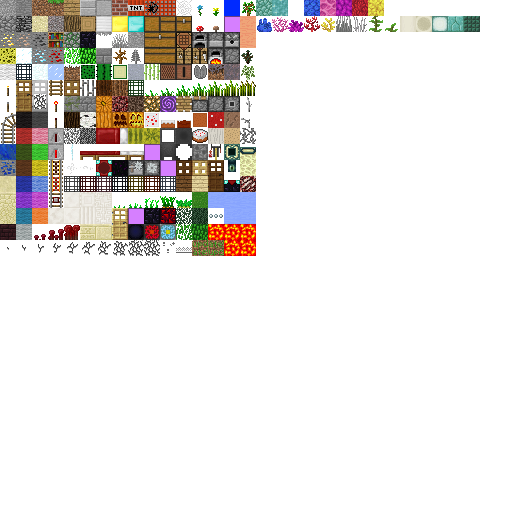
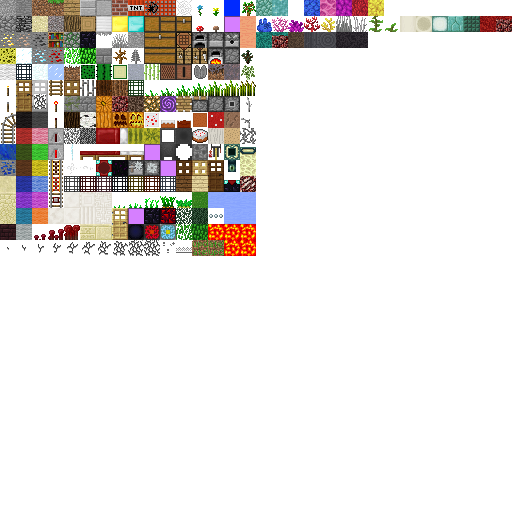
Nether Update, phase 1: Java 1.16's five Nether biomes in new worlds
NetherBiomes: nether wastes, soul sand valley, crimson forest, warped
forest, basalt deltas, picked as Java's multi-noise source does -- the
nearest of five points in (temperature, humidity), two noise fields --
scaled so all of them fit the 256-block Nether. Worked out from the seed
alone, so visitors agree with the host unsent.

New worlds only: LevelData's generator version, which was never saved, is
saved now; a world with none saved is 0 (the original Nether), new ones are
1 (LGV_NETHER_BIOMES). It reaches visitors in StartGamePacket's field for it.

HellRandomLevelSource::buildSurfaces gives every floor of a biome its ground
a few blocks deep, at any height: crimson and warped nylium over netherrack,
soul sand and soul soil in patches, basalt and blackstone; the wastes keep
the old surface. New blocks 197-201 (crimson/warped nylium, soul soil,
basalt, blackstone) on placeholder pictures until the real ones arrive.

The fog takes the biomes' Java colours, averaged round the camera and eased
towards, so it fades across a border.

Claude-Session: https://claude.ai/code/session_017mH2AEpB4uvm7sSTXaKhRB

Changed region(s): [[0.5, 0.0625, 0.7188, 0.0938], [0.9375, 0.0312, 1.0, 0.0625]]

diff --git a/handheld/src/world/level/levelgen/HellRandomLevelSource.cpp b/handheld/src/world/level/levelgen/HellRandomLevelSource.cpp
@@ -10,12 +10,14 @@
 #include "../ChunkPos.h"
 #include "../biome/Biome.h"
 #include "../biome/BiomeSource.h"
+#include "../biome/NetherBiomes.h"
 #include "../chunk/LevelChunk.h"
 #include "../material/Material.h"
 #include "../tile/Tile.h"
 #include "../tile/HeavyTile.h"
 #include "../../../util/Mth.h"
 #include "../../../util/Random.h"
+#include "../../../SharedConstants.h"
 
 static const int MAX_BUFFER_SIZE = 1024;
 
@@ -31,7 +33,9 @@ HellRandomLevelSource::HellRandomLevelSource(Level* level, long seed, int versio
 	depthNoise(&random, 16),
 	spawnMobs(spawnMobs),
 	fortress(seed),
-	pnr(NULL), ar(NULL), br(NULL)
+	pnr(NULL), ar(NULL), br(NULL),
+	seed(seed),
+	version(version)
 {
 	buffer = new float[MAX_BUFFER_SIZE];
 }
@@ -129,6 +133,22 @@ void HellRandomLevelSource::buildSurfaces(int xOffs, int zOffs, unsigned char* b
             int top = Tile::netherrack->id;
             int material = Tile::netherrack->id;
 
+            // Java 1.16's biomes (new worlds): every floor of a biome gets
+            // its ground, at any height, a few blocks deep.
+            int biomeTop = 0, biomeFill = 0;
+            if (version >= LGV_NETHER_BIOMES) {
+                const int wx = xOffs * 16 + x, wz = zOffs * 16 + z;
+                switch (NetherBiomes::at(seed, wx, wz)) {
+                    case NetherBiomes::CrimsonForest: biomeTop = Tile::crimsonNylium->id; biomeFill = Tile::netherrack->id; break;
+                    case NetherBiomes::WarpedForest:  biomeTop = Tile::warpedNylium->id;  biomeFill = Tile::netherrack->id; break;
+                    case NetherBiomes::SoulSandValley:
+                        biomeTop = biomeFill = sand ? Tile::hellSand->id : Tile::soulSoil->id; break;
+                    case NetherBiomes::BasaltDeltas:
+                        biomeTop = biomeFill = gravel ? Tile::blackstone->id : Tile::basalt->id; break;
+                    default: break;
+                }
+            }
+
             for (int y = 127; y >= 0; y--) {
                 int offs = (x << 11) | (z << 7) | y;
 
@@ -141,6 +161,15 @@ void HellRandomLevelSource::buildSurfaces(int xOffs, int zOffs, unsigned char* b
 
                     if (old == 0) {
                         run = -1;
+                    } else if (old == Tile::netherrack->id && biomeTop) {
+                        // A floor (air just above), or the blocks under one.
+                        if (run == -1) {
+                            blocks[offs] = (unsigned char) biomeTop;
+                            run = runDepth > 0 ? runDepth : 1;
+                        } else if (run > 0) {
+                            run--;
+                            blocks[offs] = (unsigned char) biomeFill;
+                        }
                     } else if (old == Tile::netherrack->id) {
                         if (run == -1) {
                             if (runDepth <= 0) {

diff --git a/handheld/src/world/level/tile/Tile.cpp b/handheld/src/world/level/tile/Tile.cpp
@@ -3,6 +3,7 @@
 #include "DoublePlantTile.h"
 #include "KelpTile.h"
 #include "SimpleBlocks.h"
+#include "NetherSurfaceTiles.h"
 #include "../Level.h"
 #include "../LevelConstants.h"
 #include "../../entity/player/Player.h"
@@ -166,6 +167,11 @@ Tile* Tile::coral[5] = { NULL, NULL, NULL, NULL, NULL };
 Tile* Tile::coralPlant[5] = { NULL, NULL, NULL, NULL, NULL };
 Tile* Tile::doubleGrass = NULL;
 Tile* Tile::kelp = NULL;
+Tile* Tile::crimsonNylium = NULL;
+Tile* Tile::warpedNylium = NULL;
+Tile* Tile::soulSoil = NULL;
+Tile* Tile::basalt = NULL;
+Tile* Tile::blackstone = NULL;
 Tile* Tile::prismarineBricks = NULL;
 Tile* Tile::darkPrismarine = NULL;
 Tile* Tile::stairs_prismarineBricks = NULL;
@@ -341,6 +347,12 @@ void Tile::initTiles() {
 	darkPrismarine = (new Tile(193, 285, Material::stone))->init()->setDestroyTime(1.5f)->setExplodeable(10)->setSoundType(SOUND_STONE)->setCategory(ItemCategory::Structures)->setDescriptionId("darkPrismarine");
 	stairs_prismarineBricks = (new StairTile(194, prismarineBricks))->init()->setCategory(ItemCategory::Structures)->setDescriptionId("stairsPrismarineBricks");
 	stairs_darkPrismarine = (new StairTile(195, darkPrismarine))->init()->setCategory(ItemCategory::Structures)->setDescriptionId("stairsDarkPrismarine");
+	// The Nether's biome surfaces (NetherBiomes): cells 286-293.
+	crimsonNylium = (new NyliumTile(197, 286))->init()->setDestroyTime(0.4f)->setSoundType(SOUND_STONE)->setCategory(ItemCategory::Structures)->setDescriptionId("crimsonNylium");
+	warpedNylium  = (new NyliumTile(198, 288))->init()->setDestroyTime(0.4f)->setSoundType(SOUND_STONE)->setCategory(ItemCategory::Structures)->setDescriptionId("warpedNylium");
+	soulSoil      = (new Tile(199, 290, Material::sand))->init()->setDestroyTime(0.5f)->setSoundType(SOUND_SAND)->setCategory(ItemCategory::Structures)->setDescriptionId("soulSoil");
+	basalt        = (new TopSideTile(200, 291, Material::stone))->init()->setDestroyTime(1.25f)->setExplodeable(4.2f)->setSoundType(SOUND_STONE)->setCategory(ItemCategory::Structures)->setDescriptionId("basalt");
+	blackstone    = (new TopSideTile(201, 293, Material::stone))->init()->setDestroyTime(1.5f)->setExplodeable(6)->setSoundType(SOUND_STONE)->setCategory(ItemCategory::Structures)->setDescriptionId("blackstone");
 	// Bone block: sides 281, top and bottom 282. Sea lantern: 283.
 	boneBlock = (new BoneBlockTile(190, 281))->init()->setDestroyTime(2.0f)->setExplodeable(10)->setSoundType(SOUND_STONE)->setCategory(ItemCategory::Structures)->setDescriptionId("boneBlock");
 	seaLantern = (new SeaLanternTile(191, 283))->init()->setDestroyTime(0.3f)->setLightEmission(1.0f)->setSoundType(SOUND_GLASS)->setCategory(ItemCategory::Decorations)->setDescriptionId("seaLantern");

diff --git a/handheld/src/world/level/biome/NetherBiomes.cpp b/handheld/src/world/level/biome/NetherBiomes.cpp
@@ -1,0 +1,71 @@
+#include "NetherBiomes.h"
+#include "../levelgen/synth/PerlinNoise.h"
+#include "../../../util/Random.h"
+
+namespace NetherBiomes
+{
+
+static float unit(float v, int octaves)
+{
+	v = v / (float) ((1 << octaves) - 1) * 1.7f;
+	return v < -1 ? -1 : (v > 1 ? 1 : v);
+}
+
+int at(long seed, int x, int z)
+{
+	static long cachedSeed = 0;
+	static bool made = false;
+	static Random* random = 0;
+	static PerlinNoise* temperature = 0;
+	static PerlinNoise* humidity = 0;
+	if (!made || seed != cachedSeed) {
+		delete temperature; delete humidity; delete random;
+		random = new Random(seed ^ 0x6e65746865724cL);
+		temperature = new PerlinNoise(random, 3);
+		humidity = new PerlinNoise(random, 3);
+		cachedSeed = seed;
+		made = true;
+	}
+	const float t = unit(temperature->getValue(x / 40.0f, z / 40.0f), 3);
+	const float h = unit(humidity->getValue(x / 40.0f + 1000.0f, z / 40.0f - 1000.0f), 3);
+	// Java 1.16's points (temperature, humidity): wastes at the middle.
+	static const float points[Count][2] = {
+		{ 0.0f, 0.0f },		// nether wastes
+		{ 0.0f, -0.5f },	// soul sand valley
+		{ 0.4f, 0.0f },		// crimson forest
+		{ 0.0f, 0.5f },		// warped forest
+		{ -0.5f, 0.0f },	// basalt deltas
+	};
+	int best = 0;
+	float bestD = 1e9f;
+	for (int i = 0; i < Count; ++i) {
+		const float dt = t - points[i][0], dh = h - points[i][1];
+		const float d = dt * dt + dh * dh;
+		if (d < bestD) { bestD = d; best = i; }
+	}
+	return best;
+}
+
+int fogColor(int biome)
+{
+	switch (biome) {
+		case SoulSandValley: return 0x1B4745;
+		case CrimsonForest:  return 0x330303;
+		case WarpedForest:   return 0x1A051A;
+		case BasaltDeltas:   return 0x685F70;
+		default:             return 0x330808;
+	}
+}
+
+const char* name(int biome)
+{
+	switch (biome) {
+		case SoulSandValley: return "Soul Sand Valley";
+		case CrimsonForest:  return "Crimson Forest";
+		case WarpedForest:   return "Warped Forest";
+		case BasaltDeltas:   return "Basalt Deltas";
+		default:             return "Nether Wastes";
+	}
+}
+
+}

diff --git a/handheld/src/client/renderer/GameRenderer.cpp b/handheld/src/client/renderer/GameRenderer.cpp
@@ -1,4 +1,7 @@
 #include "GameRenderer.h"
+#include "../../world/level/dimension/Dimension.h"
+#include "../../SharedConstants.h"
+#include "../../world/level/biome/NetherBiomes.h"
 #include "gles.h"
 #include <vector>
 #include <string.h>
@@ -927,6 +930,22 @@ void GameRenderer::setupClearColor(float a) {
     fr = (float) fogColor.x;
     fg = (float) fogColor.y;
     fb = (float) fogColor.z;
+    // A new world's Nether: the fog of the biomes round the camera, averaged
+    // over a few blocks and eased towards, so crossing a border fades.
+    if (level->dimension->id == Dimension::NETHER && level->getLevelData()->getGeneratorVersion() >= LGV_NETHER_BIOMES) {
+        float tr = 0, tg = 0, tb = 0;
+        const int px = Mth::floor(player->x), pz = Mth::floor(player->z);
+        for (int dx = -8; dx <= 8; dx += 4)
+            for (int dz = -8; dz <= 8; dz += 4) {
+                const int c = NetherBiomes::fogColor(NetherBiomes::at(level->getSeed(), px + dx, pz + dz));
+                tr += ((c >> 16) & 0xff) / 255.0f; tg += ((c >> 8) & 0xff) / 255.0f; tb += (c & 0xff) / 255.0f;
+            }
+        tr /= 25; tg /= 25; tb /= 25;
+        static float nr = -1, ng, nb;
+        if (nr < 0) { nr = tr; ng = tg; nb = tb; }
+        nr += (tr - nr) * 0.02f; ng += (tg - ng) * 0.02f; nb += (tb - nb) * 0.02f;
+        fr = nr; fg = ng; fb = nb;
+    }
 
     fr += (sr - fr) * whiteness;
     fg += (sg - fg) * whiteness;

diff --git a/handheld/src/world/level/tile/NetherSurfaceTiles.h b/handheld/src/world/level/tile/NetherSurfaceTiles.h
@@ -1,0 +1,32 @@
+#ifndef NET_MINECRAFT_WORLD_LEVEL_TILE__NetherSurfaceTiles_H__
+#define NET_MINECRAFT_WORLD_LEVEL_TILE__NetherSurfaceTiles_H__
+
+#include "Tile.h"
+#include "../material/Material.h"
+
+/// Nylium (crimson or warped): netherrack with a living top. Its top at tex,
+/// its sides at tex + 1, netherrack underneath; mined, it is netherrack.
+class NyliumTile: public Tile
+{
+public:
+	NyliumTile(int id, int tex) : Tile(id, tex, Material::stone) {}
+	int getTexture(int face) {
+		if (face == 1) return tex;
+		if (face == 0) return Tile::netherrack->tex;
+		return tex + 1;
+	}
+	int getTexture(int face, int data) { return getTexture(face); }
+	int getResource(int data, Random* random) { return Tile::netherrack->id; }
+};
+
+/// A block with its own top and bottom (tex + 1) and sides (tex): basalt,
+/// blackstone. (Basalt is a pillar in Java; upright only, for now.)
+class TopSideTile: public Tile
+{
+public:
+	TopSideTile(int id, int tex, const Material* m) : Tile(id, tex, m) {}
+	int getTexture(int face) { return face <= 1 ? tex + 1 : tex; }
+	int getTexture(int face, int data) { return getTexture(face); }
+};
+
+#endif

diff --git a/handheld/src/world/level/biome/NetherBiomes.h b/handheld/src/world/level/biome/NetherBiomes.h
@@ -1,0 +1,23 @@
+#ifndef NET_MINECRAFT_WORLD_LEVEL_BIOME__NetherBiomes_H__
+#define NET_MINECRAFT_WORLD_LEVEL_BIOME__NetherBiomes_H__
+
+/** The Nether's five biomes (Java 1.16), for worlds made since they were
+    added (LevelData's generator version 1). Not Biome objects: what they
+    decide -- the surface, the fog, later the features and mobs -- asks
+    NetherBiomes::at, which is worked out from the seed alone, so a visitor
+    gets the same answer as the host without being sent anything.
+
+    Like Java's multi-noise source, two noise fields (temperature, humidity)
+    pick the nearest of five points; scaled for a 256-block Nether, where
+    Java's biomes would cover it whole. */
+namespace NetherBiomes
+{
+	enum Id { Wastes = 0, SoulSandValley, CrimsonForest, WarpedForest, BasaltDeltas, Count };
+
+	int at(long seed, int x, int z);
+	/// Java's fog colour for the biome, 0xRRGGBB.
+	int fogColor(int biome);
+	const char* name(int biome);
+}
+
+#endif

diff --git a/handheld/src/client/gui/screens/touch/CreativeInventoryScreen.cpp b/handheld/src/client/gui/screens/touch/CreativeInventoryScreen.cpp
@@ -58,6 +58,7 @@ int CreativeInventoryScreen::sectionOf(const ItemInstance& item)
 			Tile::cactus, Tile::reeds, Tile::clay, Tile::snow, Tile::topSnow, Tile::ice, Tile::obsidian,
 			Tile::coalOre, Tile::ironOre, Tile::goldOre, Tile::emeraldOre, Tile::lapisOre,
 			Tile::redStoneOre, Tile::quartzOre, Tile::netherrack, Tile::hellSand, Tile::lightGem,
+			Tile::crimsonNylium, Tile::warpedNylium, Tile::soulSoil, Tile::basalt, Tile::blackstone,
 			Tile::pumpkin, Tile::melon, Tile::tallgrass, Tile::web, Tile::unbreakable,
 			Tile::prismarine, Tile::seaLantern, Tile::boneBlock, Tile::coral[0], Tile::coral[1], Tile::coral[2], Tile::coral[3], Tile::coral[4],
 			Tile::coralPlant[0], Tile::coralPlant[1], Tile::coralPlant[2], Tile::coralPlant[3], Tile::coralPlant[4], Tile::doubleGrass,

diff --git a/handheld/src/world/level/storage/LevelData.cpp b/handheld/src/world/level/storage/LevelData.cpp
@@ -172,6 +172,7 @@ void LevelData::setTagData( CompoundTag* tag, CompoundTag* playerTag )
 {
 	if (!tag) return;
 	tag->putLong("RandomSeed", seed);
+	tag->putInt("GeneratorVersion", generatorVersion);
 	tag->putInt("GameType", gameType);
 	tag->putInt("Dimension", dimension);
 	tag->putInt("SpawnX", xSpawn);
@@ -196,6 +197,8 @@ void LevelData::getTagData( const CompoundTag* tag )
 {
 	if (!tag) return;
 	seed = (long)tag->getLong("RandomSeed");
+	// Worlds from before it was saved are the original generator.
+	generatorVersion = tag->contains("GeneratorVersion") ? tag->getInt("GeneratorVersion") : 0;
 	gameType = tag->getInt("GameType");
 	// Worlds saved before this key existed read as 0 (Dimension::NORMAL).
 	dimension = tag->getInt("Dimension");

diff --git a/handheld/src/world/entity/player/Inventory.cpp b/handheld/src/world/entity/player/Inventory.cpp
@@ -239,6 +239,11 @@ void Inventory::setupDefault() {
 		addItem(new ItemInstance(Item::kelp));
 		addItem(new ItemInstance(Tile::boneBlock));
 		addItem(new ItemInstance(Tile::seaLantern));
+		addItem(new ItemInstance(Tile::crimsonNylium));
+		addItem(new ItemInstance(Tile::warpedNylium));
+		addItem(new ItemInstance(Tile::soulSoil));
+		addItem(new ItemInstance(Tile::basalt));
+		addItem(new ItemInstance(Tile::blackstone));
 		addItem(new ItemInstance(Tile::prismarineBricks));
 		addItem(new ItemInstance(Tile::darkPrismarine));
 		addItem(new ItemInstance(Tile::stairs_prismarineBricks));

diff --git a/handheld/src/SharedConstants.h b/handheld/src/SharedConstants.h
@@ -6,6 +6,8 @@
 enum LevelGeneratorVersion
 {
 	LGV_ORIGINAL = 0,
+	/// The Nether has Java 1.16's biomes (NetherBiomes).
+	LGV_NETHER_BIOMES = 1,
 };
 
 namespace Common {
@@ -40,7 +42,8 @@ namespace SharedConstants
     
 	const int TicksPerSecond = 20;
 
-	const int GeneratorVersion = (int)LGV_ORIGINAL;
+	// New worlds; saved in level.dat, and a world with none saved is 0.
+	const int GeneratorVersion = (int)LGV_NETHER_BIOMES;
 	//int FULLBRIGHT_LIGHTVALUE = 15 << 20 | 15 << 4;
 }
 

diff --git a/handheld/src/network/ClientSideNetworkHandler.cpp b/handheld/src/network/ClientSideNetworkHandler.cpp
@@ -202,6 +202,8 @@ void ClientSideNetworkHandler::handle(const RakNet::RakNetGUID& source, StartGam
 		SharedConstants::StorageVersion,
 		fixedDimension);
 	level->isClientSide = true;
+	// Which Nether the host's world has (its fog follows the biomes).
+	level->getLevelData()->setGeneratorVersion(packet->levelGeneratorVersion);
 	// Holds the host's chunks; generates nothing (see ClientChunkSource).
 	level->setChunkSource(new ClientChunkSource(level));
 

diff --git a/handheld/src/world/level/tile/Tile.h b/handheld/src/world/level/tile/Tile.h
@@ -228,6 +228,11 @@ public:
 	static Tile* coralPlant[5];
 	static Tile* doubleGrass;
 	static Tile* kelp;
+	static Tile* crimsonNylium;
+	static Tile* warpedNylium;
+	static Tile* soulSoil;
+	static Tile* basalt;
+	static Tile* blackstone;
 	static Tile* prismarineBricks;
 	static Tile* darkPrismarine;
 	static Tile* stairs_prismarineBricks;
